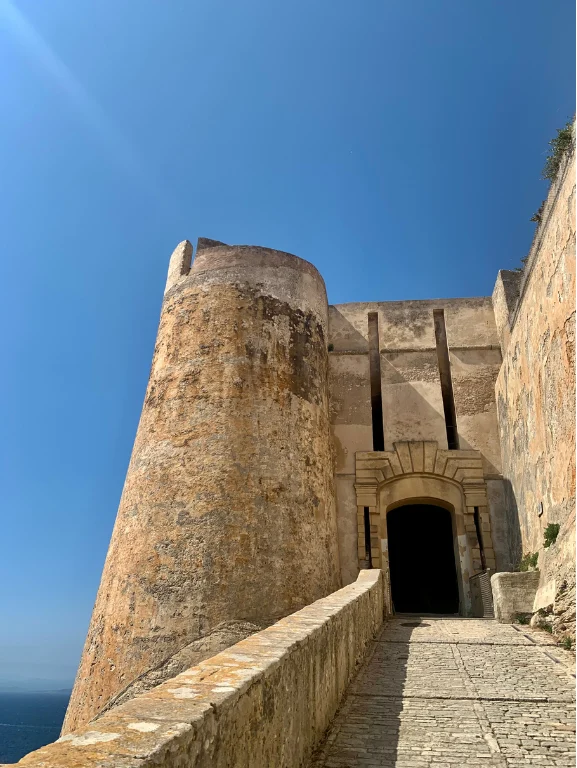
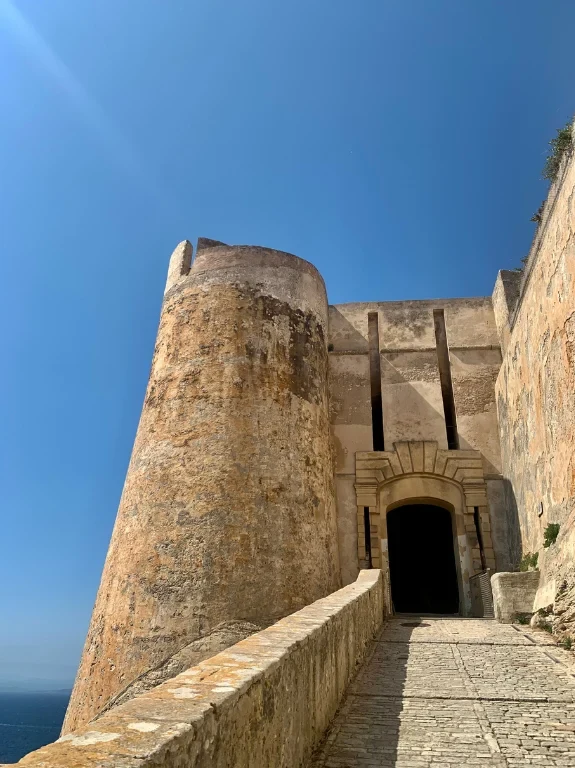
Labo : bords clairs retirés des photos de la galerie
Claude-Session: https://claude.ai/code/session_01PCZtoaRiJKjqgaF7xpctFD

diff --git a/labo.html b/labo.html
@@ -168,7 +168,6 @@ dialog.fiche::backdrop { background: rgba(5,5,7,0.78); backdrop-filter: blur(4px
 .g2x2 .zoom img { aspect-ratio: 16 / 10; object-fit: cover; object-position: top; }
 .photos { display: flex; flex-wrap: wrap; gap: 8px; --ph: clamp(120px, 19vh, 175px); }
 .photos .zoom { flex: calc(var(--r) * 100) 1 calc(var(--r) * var(--ph)); height: var(--ph); }
-.photos::after { content: ""; flex: 10 1 0; }
 .photos img { width: 100%; height: 100%; object-fit: cover; border-radius: 10px; }
 .photos a[href$="mustang.webp"] img { object-position: 50% 38%; }
 @media (max-width: 760px) { .photos { --ph: 110px; gap: 6px; } }
@@ -344,7 +343,7 @@ dialog.fiche::backdrop { background: rgba(5,5,7,0.78); backdrop-filter: blur(4px
       <div class="cote"><div class="etiquettes"><span>Perso</span><span>Photographie</span></div>
       <div class="chap"><h2>Photographie</h2><p class="brief">Ce que je regarde quand je n'ai pas de brief : des façades, des couleurs, des lacs de montagne et un chien qui pose très bien.</p>
       <ul class="competences"><li>Cadrage</li><li>Lumière</li><li>Œil couleur</li></ul></div></div>
-      <div class="medias"><div class="photos"><a class="zoom" href="assets/img/labo/photo/camden.webp" style="--r:0.75"><img src="assets/img/labo/photo/camden.webp" alt="Façade peinte avec une tête d'éléphant à Camden, Londres" loading="lazy"></a><a class="zoom" href="assets/img/labo/photo/sacre-coeur.webp" style="--r:0.75"><img src="assets/img/labo/photo/sacre-coeur.webp" alt="Les dômes du Sacré-Cœur au soleil couchant" loading="lazy"></a><a class="zoom" href="assets/img/moi/lac-braies.webp" style="--r:1.778"><img src="assets/img/moi/lac-braies.webp" alt="Un lac de montagne entouré de sapins, dans les Dolomites" loading="lazy"></a><a class="zoom" href="assets/img/labo/photo/mustang.webp" style="--r:0.75"><img src="assets/img/labo/photo/mustang.webp" alt="La calandre d'une Mustang jaune et noire" loading="lazy"></a><a class="zoom" href="assets/img/labo/photo/chapelle-crete.webp" style="--r:0.75"><img src="assets/img/labo/photo/chapelle-crete.webp" alt="Une chapelle blanche et bleue au bord de la mer en Crète" loading="lazy"></a><a class="zoom" href="assets/img/moi/atlas-sommets.webp" style="--r:0.5625"><img src="assets/img/moi/atlas-sommets.webp" alt="Mon chien devant des sommets rocheux" loading="lazy"></a><a class="zoom" href="assets/img/labo/photo/peintre-montmartre.webp" style="--r:0.75"><img src="assets/img/labo/photo/peintre-montmartre.webp" alt="Les toiles d'un peintre de rue à Montmartre" loading="lazy"></a><a class="zoom" href="assets/img/mont-jour.webp" style="--r:1.778"><img src="assets/img/mont-jour.webp" alt="Des sommets calcaires au-dessus d'une forêt de mélèzes" loading="lazy"></a><a class="zoom" href="assets/img/labo/photo/big-ben.webp" style="--r:0.75"><img src="assets/img/labo/photo/big-ben.webp" alt="Le cadran de Big Ben" loading="lazy"></a><a class="zoom" href="assets/img/labo/photo/passerelle.webp" style="--r:0.75"><img src="assets/img/labo/photo/passerelle.webp" alt="Une passerelle en bois au-dessus d'une rivière transparente" loading="lazy"></a><a class="zoom" href="assets/img/moi/lac-foret.webp" style="--r:1.778"><img src="assets/img/moi/lac-foret.webp" alt="Un lac turquoise au pied de la forêt" loading="lazy"></a><a class="zoom" href="assets/img/labo/photo/notting-hill.webp" style="--r:0.75"><img src="assets/img/labo/photo/notting-hill.webp" alt="Façades bleue et blanches à Notting Hill" loading="lazy"></a><a class="zoom" href="assets/img/labo/photo/bonifacio.webp" style="--r:0.75"><img src="assets/img/labo/photo/bonifacio.webp" alt="La citadelle de Bonifacio sous un ciel bleu" loading="lazy"></a><a class="zoom" href="assets/img/moi/atlas-lac.webp" style="--r:0.5625"><img src="assets/img/moi/atlas-lac.webp" alt="Mon chien assis au bord d'un lac" loading="lazy"></a><a class="zoom" href="assets/img/labo/photo/crete-baie.webp" style="--r:0.75"><img src="assets/img/labo/photo/crete-baie.webp" alt="Une baie turquoise en Crète" loading="lazy"></a><a class="zoom" href="assets/img/moi/lac-nuages.webp" style="--r:1.778"><img src="assets/img/moi/lac-nuages.webp" alt="Un lac sous les nuages, montagnes en reflet" loading="lazy"></a><a class="zoom" href="assets/img/labo/photo/immeuble-paris.webp" style="--r:0.75"><img src="assets/img/labo/photo/immeuble-paris.webp" alt="Un immeuble haussmannien et son dôme d'ardoise" loading="lazy"></a><a class="zoom" href="assets/img/mont-soir.webp" style="--r:1.778"><img src="assets/img/mont-soir.webp" alt="Une crête de montagne au coucher du soleil" loading="lazy"></a></div></div>
+      <div class="medias"><div class="photos"><a class="zoom" href="assets/img/labo/photo/camden.webp" style="--r:0.75"><img src="assets/img/labo/photo/camden.webp" alt="Façade peinte avec une tête d'éléphant à Camden, Londres" loading="lazy"></a><a class="zoom" href="assets/img/labo/photo/sacre-coeur.webp" style="--r:0.75"><img src="assets/img/labo/photo/sacre-coeur.webp" alt="Les dômes du Sacré-Cœur au soleil couchant" loading="lazy"></a><a class="zoom" href="assets/img/moi/lac-braies.webp" style="--r:1.778"><img src="assets/img/moi/lac-braies.webp" alt="Un lac de montagne entouré de sapins, dans les Dolomites" loading="lazy"></a><a class="zoom" href="assets/img/labo/photo/mustang.webp" style="--r:0.75"><img src="assets/img/labo/photo/mustang.webp" alt="La calandre d'une Mustang jaune et noire" loading="lazy"></a><a class="zoom" href="assets/img/labo/photo/chapelle-crete.webp" style="--r:0.75"><img src="assets/img/labo/photo/chapelle-crete.webp" alt="Une chapelle blanche et bleue au bord de la mer en Crète" loading="lazy"></a><a class="zoom" href="assets/img/moi/atlas-sommets.webp" style="--r:0.5625"><img src="assets/img/moi/atlas-sommets.webp" alt="Mon chien devant des sommets rocheux" loading="lazy"></a><a class="zoom" href="assets/img/labo/photo/peintre-montmartre.webp" style="--r:0.75"><img src="assets/img/labo/photo/peintre-montmartre.webp" alt="Les toiles d'un peintre de rue à Montmartre" loading="lazy"></a><a class="zoom" href="assets/img/mont-jour.webp" style="--r:1.778"><img src="assets/img/mont-jour.webp" alt="Des sommets calcaires au-dessus d'une forêt de mélèzes" loading="lazy"></a><a class="zoom" href="assets/img/labo/photo/big-ben.webp" style="--r:0.75"><img src="assets/img/labo/photo/big-ben.webp" alt="Le cadran de Big Ben" loading="lazy"></a><a class="zoom" href="assets/img/labo/photo/passerelle.webp" style="--r:0.75"><img src="assets/img/labo/photo/passerelle.webp" alt="Une passerelle en bois au-dessus d'une rivière transparente" loading="lazy"></a><a class="zoom" href="assets/img/moi/lac-foret.webp" style="--r:1.778"><img src="assets/img/moi/lac-foret.webp" alt="Un lac turquoise au pied de la forêt" loading="lazy"></a><a class="zoom" href="assets/img/labo/photo/notting-hill.webp" style="--r:0.75"><img src="assets/img/labo/photo/notting-hill.webp" alt="Façades bleue et blanches à Notting Hill" loading="lazy"></a><a class="zoom" href="assets/img/labo/photo/bonifacio.webp" style="--r:0.75"><img src="assets/img/labo/photo/bonifacio.webp" alt="La citadelle de Bonifacio sous un ciel bleu" loading="lazy"></a><a class="zoom" href="assets/img/moi/atlas-lac.webp" style="--r:0.5625"><img src="assets/img/moi/atlas-lac.webp" alt="Mon chien assis au bord d'un lac" loading="lazy"></a><a class="zoom" href="assets/img/labo/photo/crete-baie.webp" style="--r:0.75"><img src="assets/img/labo/photo/crete-baie.webp" alt="Une baie turquoise en Crète" loading="lazy"></a><a class="zoom" href="assets/img/moi/lac-nuages.webp" style="--r:1.778"><img src="assets/img/moi/lac-nuages.webp" alt="Un lac sous les nuages, montagnes en reflet" loading="lazy"></a><a class="zoom" href="assets/img/labo/photo/immeuble-paris.webp" style="--r:0.75"><img src="assets/img/labo/photo/immeuble-paris.webp" alt="Un immeuble haussmannien et son dôme d'ardoise" loading="lazy"></a><a class="zoom" href="assets/img/labo/photo/mont-soir.webp" style="--r:1.788"><img src="assets/img/labo/photo/mont-soir.webp" alt="Une crête de montagne au coucher du soleil" loading="lazy"></a></div></div>
     </article>
 
     <article class="projet-labo" data-cat="perso identite" id="logos" style="border:0">

diff --git a/outils/build.py b/outils/build.py
@@ -468,7 +468,6 @@ dialog.fiche::backdrop { background: rgba(5,5,7,0.78); backdrop-filter: blur(4px
 .g2x2 .zoom img { aspect-ratio: 16 / 10; object-fit: cover; object-position: top; }
 .photos { display: flex; flex-wrap: wrap; gap: 8px; --ph: clamp(120px, 19vh, 175px); }
 .photos .zoom { flex: calc(var(--r) * 100) 1 calc(var(--r) * var(--ph)); height: var(--ph); }
-.photos::after { content: ""; flex: 10 1 0; }
 .photos img { width: 100%; height: 100%; object-fit: cover; border-radius: 10px; }
 .photos a[href$="mustang.webp"] img { object-position: 50% 38%; }
 @media (max-width: 760px) { .photos { --ph: 110px; gap: 6px; } }
@@ -635,7 +634,7 @@ labo += f"""  <div class="ouv" style="min-height:62svh">
       <div class="cote"><div class="etiquettes"><span>Perso</span><span>Photographie</span></div>
       <div class="chap"><h2>Photographie</h2><p class="brief">Ce que je regarde quand je n'ai pas de brief : des façades, des couleurs, des lacs de montagne et un chien qui pose très bien.</p>
       <ul class="competences"><li>Cadrage</li><li>Lumière</li><li>Œil couleur</li></ul></div></div>
-      <div class="medias"><div class="photos"><a class="zoom" href="assets/img/labo/photo/camden.webp" style="--r:0.75"><img src="assets/img/labo/photo/camden.webp" alt="Façade peinte avec une tête d'éléphant à Camden, Londres" loading="lazy"></a><a class="zoom" href="assets/img/labo/photo/sacre-coeur.webp" style="--r:0.75"><img src="assets/img/labo/photo/sacre-coeur.webp" alt="Les dômes du Sacré-Cœur au soleil couchant" loading="lazy"></a><a class="zoom" href="assets/img/moi/lac-braies.webp" style="--r:1.778"><img src="assets/img/moi/lac-braies.webp" alt="Un lac de montagne entouré de sapins, dans les Dolomites" loading="lazy"></a><a class="zoom" href="assets/img/labo/photo/mustang.webp" style="--r:0.75"><img src="assets/img/labo/photo/mustang.webp" alt="La calandre d'une Mustang jaune et noire" loading="lazy"></a><a class="zoom" href="assets/img/labo/photo/chapelle-crete.webp" style="--r:0.75"><img src="assets/img/labo/photo/chapelle-crete.webp" alt="Une chapelle blanche et bleue au bord de la mer en Crète" loading="lazy"></a><a class="zoom" href="assets/img/moi/atlas-sommets.webp" style="--r:0.5625"><img src="assets/img/moi/atlas-sommets.webp" alt="Mon chien devant des sommets rocheux" loading="lazy"></a><a class="zoom" href="assets/img/labo/photo/peintre-montmartre.webp" style="--r:0.75"><img src="assets/img/labo/photo/peintre-montmartre.webp" alt="Les toiles d'un peintre de rue à Montmartre" loading="lazy"></a><a class="zoom" href="assets/img/mont-jour.webp" style="--r:1.778"><img src="assets/img/mont-jour.webp" alt="Des sommets calcaires au-dessus d'une forêt de mélèzes" loading="lazy"></a><a class="zoom" href="assets/img/labo/photo/big-ben.webp" style="--r:0.75"><img src="assets/img/labo/photo/big-ben.webp" alt="Le cadran de Big Ben" loading="lazy"></a><a class="zoom" href="assets/img/labo/photo/passerelle.webp" style="--r:0.75"><img src="assets/img/labo/photo/passerelle.webp" alt="Une passerelle en bois au-dessus d'une rivière transparente" loading="lazy"></a><a class="zoom" href="assets/img/moi/lac-foret.webp" style="--r:1.778"><img src="assets/img/moi/lac-foret.webp" alt="Un lac turquoise au pied de la forêt" loading="lazy"></a><a class="zoom" href="assets/img/labo/photo/notting-hill.webp" style="--r:0.75"><img src="assets/img/labo/photo/notting-hill.webp" alt="Façades bleue et blanches à Notting Hill" loading="lazy"></a><a class="zoom" href="assets/img/labo/photo/bonifacio.webp" style="--r:0.75"><img src="assets/img/labo/photo/bonifacio.webp" alt="La citadelle de Bonifacio sous un ciel bleu" loading="lazy"></a><a class="zoom" href="assets/img/moi/atlas-lac.webp" style="--r:0.5625"><img src="assets/img/moi/atlas-lac.webp" alt="Mon chien assis au bord d'un lac" loading="lazy"></a><a class="zoom" href="assets/img/labo/photo/crete-baie.webp" style="--r:0.75"><img src="assets/img/labo/photo/crete-baie.webp" alt="Une baie turquoise en Crète" loading="lazy"></a><a class="zoom" href="assets/img/moi/lac-nuages.webp" style="--r:1.778"><img src="assets/img/moi/lac-nuages.webp" alt="Un lac sous les nuages, montagnes en reflet" loading="lazy"></a><a class="zoom" href="assets/img/labo/photo/immeuble-paris.webp" style="--r:0.75"><img src="assets/img/labo/photo/immeuble-paris.webp" alt="Un immeuble haussmannien et son dôme d'ardoise" loading="lazy"></a><a class="zoom" href="assets/img/mont-soir.webp" style="--r:1.778"><img src="assets/img/mont-soir.webp" alt="Une crête de montagne au coucher du soleil" loading="lazy"></a></div></div>
+      <div class="medias"><div class="photos"><a class="zoom" href="assets/img/labo/photo/camden.webp" style="--r:0.75"><img src="assets/img/labo/photo/camden.webp" alt="Façade peinte avec une tête d'éléphant à Camden, Londres" loading="lazy"></a><a class="zoom" href="assets/img/labo/photo/sacre-coeur.webp" style="--r:0.75"><img src="assets/img/labo/photo/sacre-coeur.webp" alt="Les dômes du Sacré-Cœur au soleil couchant" loading="lazy"></a><a class="zoom" href="assets/img/moi/lac-braies.webp" style="--r:1.778"><img src="assets/img/moi/lac-braies.webp" alt="Un lac de montagne entouré de sapins, dans les Dolomites" loading="lazy"></a><a class="zoom" href="assets/img/labo/photo/mustang.webp" style="--r:0.75"><img src="assets/img/labo/photo/mustang.webp" alt="La calandre d'une Mustang jaune et noire" loading="lazy"></a><a class="zoom" href="assets/img/labo/photo/chapelle-crete.webp" style="--r:0.75"><img src="assets/img/labo/photo/chapelle-crete.webp" alt="Une chapelle blanche et bleue au bord de la mer en Crète" loading="lazy"></a><a class="zoom" href="assets/img/moi/atlas-sommets.webp" style="--r:0.5625"><img src="assets/img/moi/atlas-sommets.webp" alt="Mon chien devant des sommets rocheux" loading="lazy"></a><a class="zoom" href="assets/img/labo/photo/peintre-montmartre.webp" style="--r:0.75"><img src="assets/img/labo/photo/peintre-montmartre.webp" alt="Les toiles d'un peintre de rue à Montmartre" loading="lazy"></a><a class="zoom" href="assets/img/mont-jour.webp" style="--r:1.778"><img src="assets/img/mont-jour.webp" alt="Des sommets calcaires au-dessus d'une forêt de mélèzes" loading="lazy"></a><a class="zoom" href="assets/img/labo/photo/big-ben.webp" style="--r:0.75"><img src="assets/img/labo/photo/big-ben.webp" alt="Le cadran de Big Ben" loading="lazy"></a><a class="zoom" href="assets/img/labo/photo/passerelle.webp" style="--r:0.75"><img src="assets/img/labo/photo/passerelle.webp" alt="Une passerelle en bois au-dessus d'une rivière transparente" loading="lazy"></a><a class="zoom" href="assets/img/moi/lac-foret.webp" style="--r:1.778"><img src="assets/img/moi/lac-foret.webp" alt="Un lac turquoise au pied de la forêt" loading="lazy"></a><a class="zoom" href="assets/img/labo/photo/notting-hill.webp" style="--r:0.75"><img src="assets/img/labo/photo/notting-hill.webp" alt="Façades bleue et blanches à Notting Hill" loading="lazy"></a><a class="zoom" href="assets/img/labo/photo/bonifacio.webp" style="--r:0.75"><img src="assets/img/labo/photo/bonifacio.webp" alt="La citadelle de Bonifacio sous un ciel bleu" loading="lazy"></a><a class="zoom" href="assets/img/moi/atlas-lac.webp" style="--r:0.5625"><img src="assets/img/moi/atlas-lac.webp" alt="Mon chien assis au bord d'un lac" loading="lazy"></a><a class="zoom" href="assets/img/labo/photo/crete-baie.webp" style="--r:0.75"><img src="assets/img/labo/photo/crete-baie.webp" alt="Une baie turquoise en Crète" loading="lazy"></a><a class="zoom" href="assets/img/moi/lac-nuages.webp" style="--r:1.778"><img src="assets/img/moi/lac-nuages.webp" alt="Un lac sous les nuages, montagnes en reflet" loading="lazy"></a><a class="zoom" href="assets/img/labo/photo/immeuble-paris.webp" style="--r:0.75"><img src="assets/img/labo/photo/immeuble-paris.webp" alt="Un immeuble haussmannien et son dôme d'ardoise" loading="lazy"></a><a class="zoom" href="assets/img/labo/photo/mont-soir.webp" style="--r:1.788"><img src="assets/img/labo/photo/mont-soir.webp" alt="Une crête de montagne au coucher du soleil" loading="lazy"></a></div></div>
     </article>
 
     <article class="projet-labo" data-cat="perso identite" id="logos" style="border:0">
